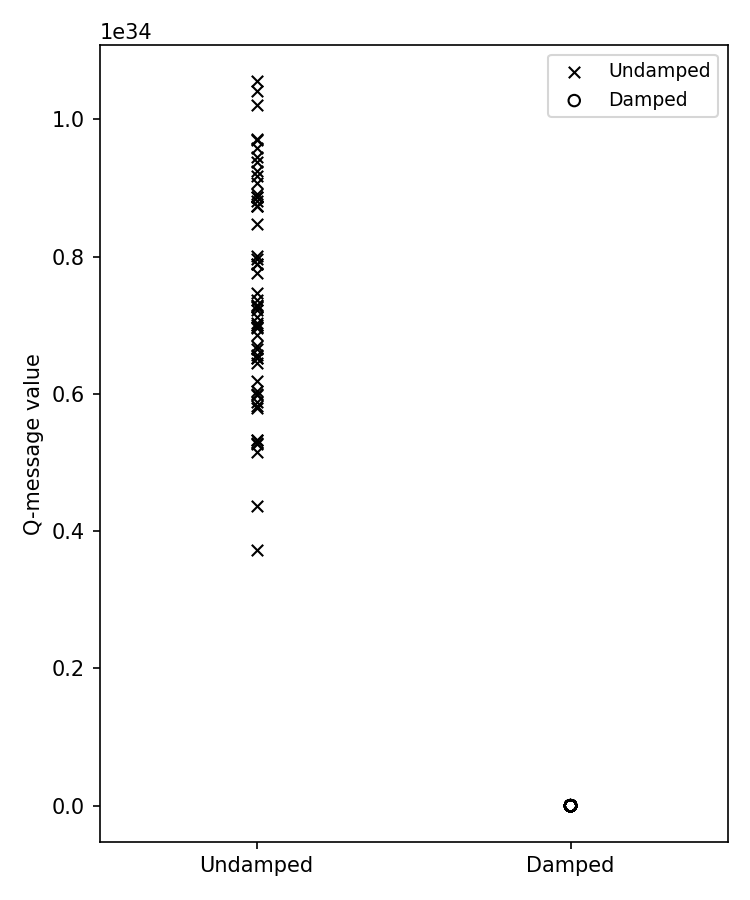
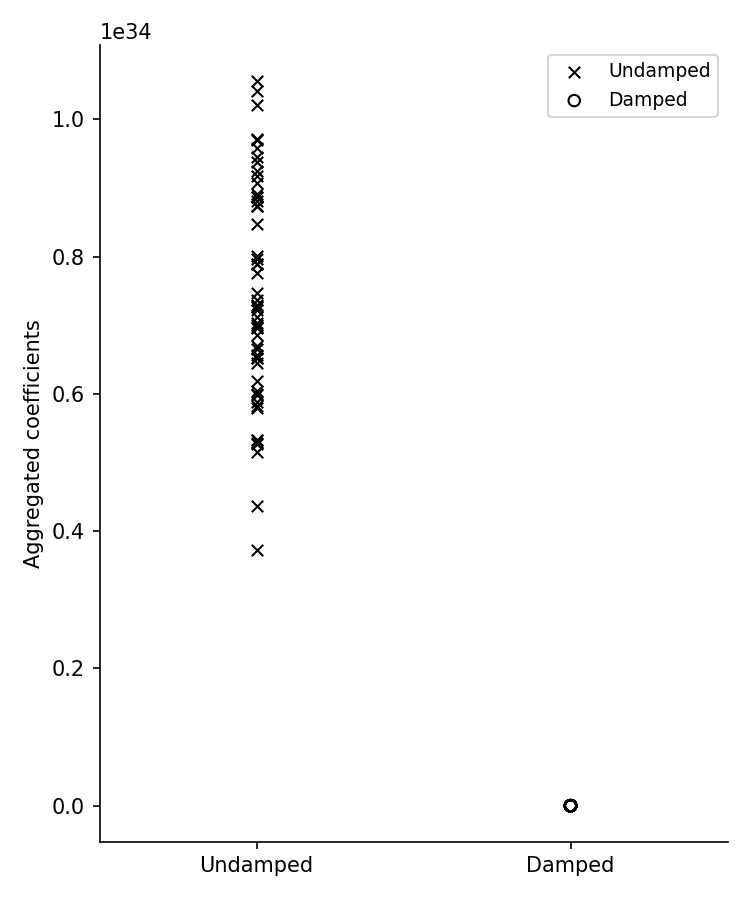
feat(experiments): signal propagation plot updates
refresh plot_range_analysis.py and plot_results.py and regenerate
the scatter distribution PNGs (damped, undamped, side_by_side) used
by the signal propagation analysis.

Changed region(s): [[0.0307, 0.3422, 0.0613, 0.6533]]

diff --git a/experiments/signal_propagation/plot_range_analysis.py b/experiments/signal_propagation/plot_range_analysis.py
@@ -4,16 +4,20 @@ Reads signal_results_combined.csv and produces plots in subdirectories.
 
 Usage::
 
-    uv run python expiriments/signal_propagation/plot_range_analysis.py
+    uv run python experiments/signal_propagation/plot_range_analysis.py
 """
 
 from __future__ import annotations
 
+import sys
 from pathlib import Path
 
 import matplotlib.pyplot as plt
 import numpy as np
 import pandas as pd
+
+sys.path.insert(0, str(Path(__file__).resolve().parents[2]))
+from experiments.utils.plot_helpers import remove_frame as _remove_frame  # noqa: E402
 
 RESULTS_DIR = Path(__file__).resolve().parent / "results"
 BASE_OUT = Path(__file__).resolve().parent
@@ -67,6 +71,7 @@ def plot_dynamic_range(df: pd.DataFrame) -> None:
     ax1.set_xlim(0, 1.05)
     bp_range = bp_sorted["q_message_value"].max() - bp_sorted["q_message_value"].min()
     ax1.set_title(f"Undamped\nrange = {bp_range:.2e}", fontsize=11)
+    _remove_frame(ax1)
 
     # right: damped — hatched bars, lighter fill
     ax2.barh(y, damp_norm, color="white", edgecolor="black", linewidth=0.5,
@@ -75,6 +80,7 @@ def plot_dynamic_range(df: pd.DataFrame) -> None:
     ax2.set_xlim(0, 1.05)
     damp_range = damp_ordered["q_message_value"].max() - damp_ordered["q_message_value"].min()
     ax2.set_title(f"Damped\nrange = {damp_range:.2e}", fontsize=11)
+    _remove_frame(ax2)
 
     plt.tight_layout()
 
@@ -109,6 +115,7 @@ def plot_minmax_range(df: pd.DataFrame) -> None:
     for bar, val in zip(bars, [bp_range, damp_range]):
         ax.text(bar.get_x() + bar.get_width() / 2, bar.get_height(),
                 f"{val:.2e}", ha="center", va="bottom", fontsize=9)
+    _remove_frame(ax)
     plt.tight_layout()
     fig.savefig(out_dir / "minmax_range_same_scale.png", dpi=150)
     plt.close(fig)
@@ -122,6 +129,7 @@ def plot_minmax_range(df: pd.DataFrame) -> None:
     ax1.ticklabel_format(axis="y", style="scientific", scilimits=(0, 0))
     ax1.text(b1[0].get_x() + b1[0].get_width() / 2, bp_range,
              f"{bp_range:.2e}", ha="center", va="bottom", fontsize=9)
+    _remove_frame(ax1)
 
     b2 = ax2.bar(["Damped"], [damp_range], color="white", edgecolor="black",
                  linewidth=1.0, hatch="///", width=0.4)
@@ -129,6 +137,7 @@ def plot_minmax_range(df: pd.DataFrame) -> None:
     ax2.ticklabel_format(axis="y", style="scientific", scilimits=(0, 0))
     ax2.text(b2[0].get_x() + b2[0].get_width() / 2, damp_range,
              f"{damp_range:.2e}", ha="center", va="bottom", fontsize=9)
+    _remove_frame(ax2)
 
     plt.tight_layout()
     fig.savefig(out_dir / "minmax_range_split.png", dpi=150)
@@ -168,6 +177,7 @@ def plot_per_factor_ratio(df: pd.DataFrame) -> None:
     median_ratio = float(np.median(ratio))
     ax.axvline(median_ratio, color="black", linestyle="--", linewidth=1.0, label=f"median = {median_ratio:.2f}")
     ax.legend(fontsize=9)
+    _remove_frame(ax)
 
     plt.tight_layout()
 
@@ -198,6 +208,7 @@ def plot_signal_uniformity(df: pd.DataFrame) -> None:
     ax.set_xlim(1, len(ranks))
     ax.set_ylim(-0.05, 1.05)
     ax.legend(fontsize=10)
+    _remove_frame(ax)
 
     plt.tight_layout()
 
@@ -209,9 +220,26 @@ def plot_signal_uniformity(df: pd.DataFrame) -> None:
     print(f"[plot] saved {out_path}")
 
 
-def _scatter_stats_text(vals: np.ndarray) -> str:
-    """Format std and range annotation for scatter plots."""
-    return f"std = {np.std(vals):.2e}\nrange = {np.ptp(vals):.2e}"
+def _superscript_int(n: int) -> str:
+    _sup = {
+        "0": "\u2070", "1": "\u00b9", "2": "\u00b2", "3": "\u00b3",
+        "4": "\u2074", "5": "\u2075", "6": "\u2076", "7": "\u2077",
+        "8": "\u2078", "9": "\u2079", "-": "\u207b",
+    }
+    return "".join(_sup.get(c, c) for c in str(n))
+
+
+def _scatter_stats_text(vals: np.ndarray, exponent: int | None = None) -> str:
+    """Format std and range with a shared exponent for easy comparison."""
+    std_val = float(np.std(vals))
+    range_val = float(np.ptp(vals))
+    if exponent is None:
+        max_abs = max(abs(std_val), abs(range_val), 1e-300)
+        exponent = int(np.floor(np.log10(max_abs)))
+    scale = 10.0 ** exponent
+    std_scaled = std_val / scale
+    range_scaled = range_val / scale
+    return f"std = {std_scaled:.2f}\nrange = {range_scaled:.2f}\n(\u00d710{_superscript_int(exponent)})"
 
 
 # ── plot A: scatter undamped only ─────────────────────────────────────────────
@@ -226,11 +254,15 @@ def plot_scatter_undamped(df: pd.DataFrame) -> None:
     fig, ax = plt.subplots(figsize=(4, 6))
     ax.scatter(np.zeros_like(vals), vals, marker="x", color="black", s=30, linewidths=1.0)
     ax.set_xticks([])
-    ax.set_ylabel("Q-message value")
+    ax.set_ylabel("Aggregated coefficients")
     ax.ticklabel_format(axis="y", style="scientific", scilimits=(0, 0))
-    ax.text(0.95, 0.95, _scatter_stats_text(vals), transform=ax.transAxes,
+    # draw once to let matplotlib pick the axis exponent, then match it
+    fig.canvas.draw()
+    axis_exp = int(ax.yaxis.get_offset_text().get_text().replace("1e", "").replace("\u2212", "-") or "0")
+    ax.text(0.95, 0.95, _scatter_stats_text(vals, exponent=axis_exp), transform=ax.transAxes,
             ha="right", va="top", fontsize=9, family="monospace")
     ax.set_xlabel("Undamped")
+    _remove_frame(ax)
     plt.tight_layout()
     fig.savefig(out_dir / "scatter_undamped.png", dpi=150)
     plt.close(fig)
@@ -249,11 +281,12 @@ def plot_scatter_damped(df: pd.DataFrame) -> None:
     fig, ax = plt.subplots(figsize=(4, 6))
     ax.scatter(np.zeros_like(vals), vals, marker="o", facecolors="none", edgecolors="black", s=30, linewidths=1.0)
     ax.set_xticks([])
-    ax.set_ylabel("Q-message value")
+    ax.set_ylabel("Aggregated coefficients")
     ax.ticklabel_format(axis="y", style="scientific", scilimits=(0, 0))
     ax.text(0.95, 0.95, _scatter_stats_text(vals), transform=ax.transAxes,
             ha="right", va="top", fontsize=9, family="monospace")
     ax.set_xlabel("Damped")
+    _remove_frame(ax)
     plt.tight_layout()
     fig.savefig(out_dir / "scatter_damped.png", dpi=150)
     plt.close(fig)
@@ -271,12 +304,13 @@ def _plot_scatter_side_by_side(bp_vals, damp_vals, out_path, log_scale=False):
     ax.set_xticks([0, 1])
     ax.set_xticklabels(["Undamped", "Damped"])
     ax.set_xlim(-0.5, 1.5)
-    ax.set_ylabel("Q-message value")
+    ax.set_ylabel("Aggregated coefficients")
     if log_scale:
         ax.set_yscale("log")
     else:
         ax.ticklabel_format(axis="y", style="scientific", scilimits=(0, 0))
     ax.legend(fontsize=9)
+    _remove_frame(ax)
     plt.tight_layout()
     fig.savefig(out_path, dpi=150)
     plt.close(fig)
@@ -306,12 +340,13 @@ def _plot_scatter_overlay(bp_vals, damp_vals, out_path, log_scale=False):
     ax.scatter(jitter_damp, damp_vals, marker="o", facecolors="none", edgecolors="black",
                s=30, linewidths=1.0, label="Damped")
     ax.set_xticks([])
-    ax.set_ylabel("Q-message value")
+    ax.set_ylabel("Aggregated coefficients")
     if log_scale:
         ax.set_yscale("log")
     else:
         ax.ticklabel_format(axis="y", style="scientific", scilimits=(0, 0))
     ax.legend(fontsize=9)
+    _remove_frame(ax)
     plt.tight_layout()
     fig.savefig(out_path, dpi=150)
     plt.close(fig)

diff --git a/experiments/signal_propagation/plot_results.py b/experiments/signal_propagation/plot_results.py
@@ -17,6 +17,7 @@ from matplotlib.cm import ScalarMappable
 from matplotlib.lines import Line2D
 
 sys.path.insert(0, str(Path(__file__).resolve().parents[2]))
+from experiments.utils.plot_helpers import remove_frame as _remove_frame  # noqa: E402
 
 RESULTS_DIR = Path(__file__).resolve().parent / "results"
 PLOTS_DIR = Path(__file__).resolve().parent / "plots"
@@ -152,6 +153,7 @@ def plot_comparison_bars(meta, df_combined, plots_dir):
         ax.set_xlabel("belief at observer (log scale)", fontsize=10)
         ax.set_title(f"{engine_name} — signal at {meta['observer']}",
                      fontsize=11, fontweight="bold")
+        _remove_frame(ax)
 
     plt.tight_layout()
     out = plots_dir / "signal_comparison_bars.png"